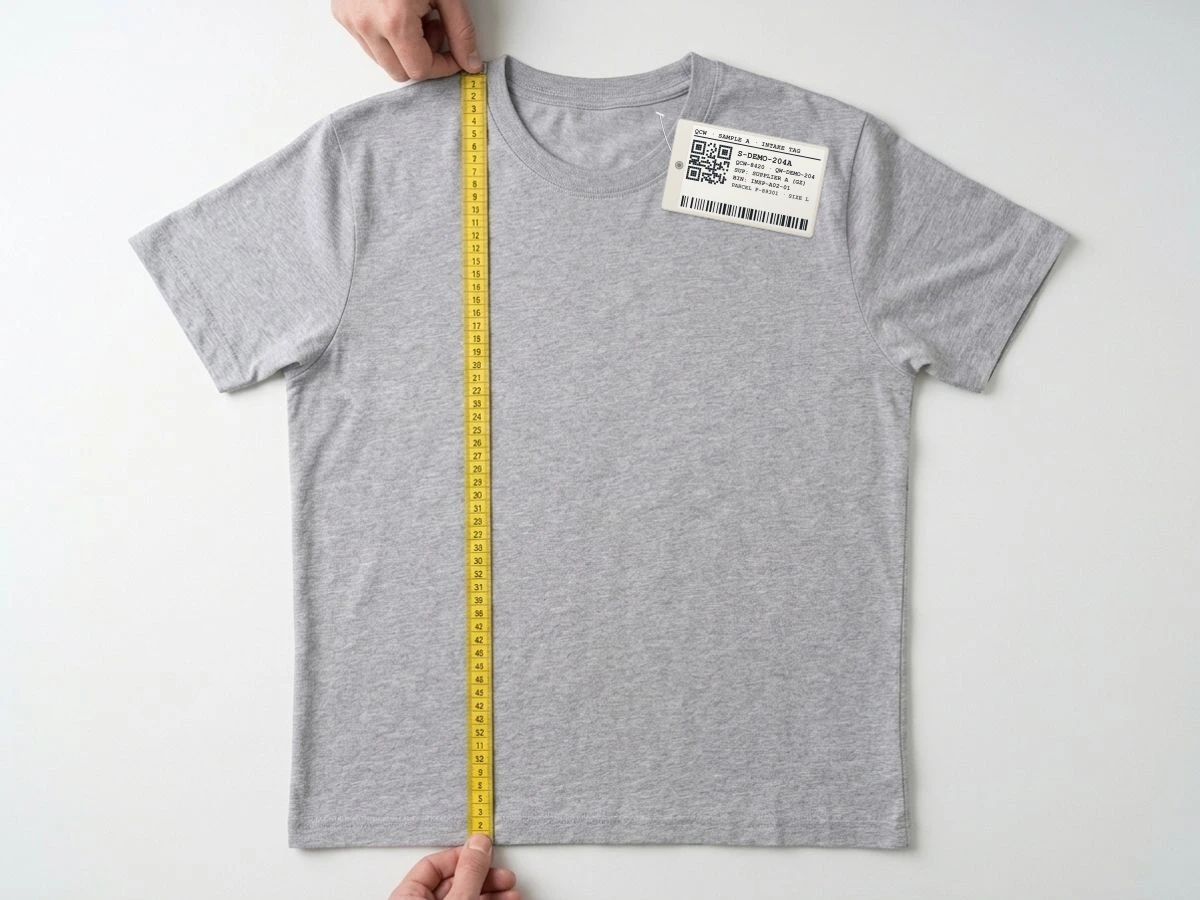
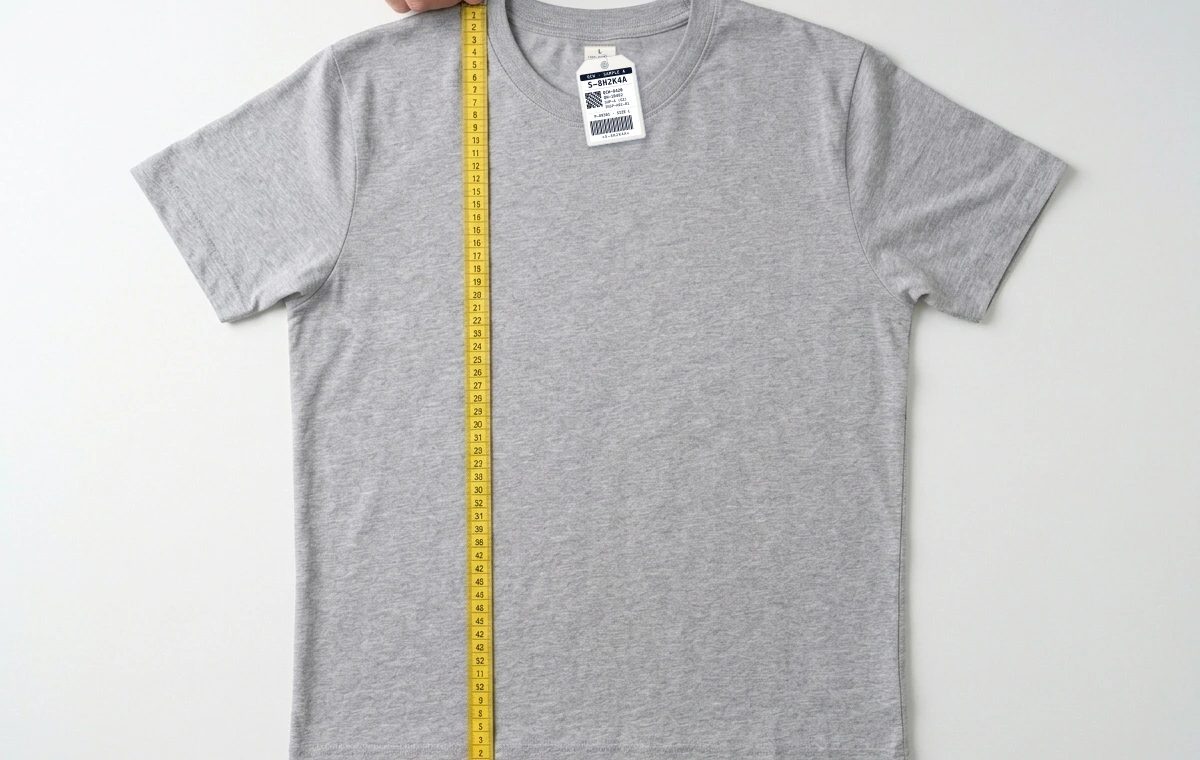
fix(marketing): pin vertical chamfered hangtags to inner collar neck labels and replace DEMO item/order/report codes

diff --git a/app/report-guide.tsx b/app/report-guide.tsx
@@ -96,7 +96,7 @@ export function SampleReportPreview() {
       <dl className="proof-data">
         <div>
           <dt>Order / Report</dt>
-          <dd>QW-DEMO-204<br />Version 02 · Reviewed</dd>
+          <dd>QW-10482 · RPT-10482<br />Version 02 · Reviewed</dd>
         </div>
         <div>
           <dt>Commissioned Service</dt>
@@ -168,30 +168,30 @@ type LightboxItem = {
 
 const DEMO_SAMPLES = [
   {
-    code: "S-DEMO-204A",
-    alias: "Illustrative Supplier A (Guangzhou)",
-    parcel: "Demo Parcel #1",
+    code: "S-8H2K4A",
+    alias: "Supplier A (Guangzhou)",
+    parcel: "P-89301 · Bin INSP-A02-01",
     size: "Labeled L",
-    weight: "238 g (example)",
-    outcome: "Within illustrative spec · Retained as example Golden Sample",
+    weight: "238 g",
+    outcome: "Within target spec · Retained as Golden Sample",
     tone: "green",
   },
   {
-    code: "S-DEMO-204B",
-    alias: "Illustrative Supplier B (Dongguan)",
-    parcel: "Demo Parcel #2",
+    code: "S-8H2K4B",
+    alias: "Supplier B (Dongguan)",
+    parcel: "P-89302 · Bin INSP-A02-02",
     size: "Labeled L",
-    weight: "214 g (example)",
-    outcome: "Example out-of-tolerance chest (+1.6 cm) · 2 annotated defect demos",
+    weight: "214 g",
+    outcome: "Out-of-tolerance chest (+1.6 cm) · 2 annotated defect notes",
     tone: "red",
   },
   {
-    code: "S-DEMO-204C",
-    alias: "Illustrative Supplier C (Ningbo)",
-    parcel: "Demo Parcel #3",
+    code: "S-8H2K4C",
+    alias: "Supplier C (Ningbo)",
+    parcel: "P-89303 · Bin INSP-A02-03",
     size: "Labeled L",
-    weight: "241 g (example)",
-    outcome: "Within illustrative spec · Routed to example forwarder",
+    weight: "241 g",
+    outcome: "Within target spec · Routed to designated forwarder",
     tone: "blue",
   },
 ] as const;
@@ -268,28 +268,28 @@ const MEASUREMENT_ROWS = [
 const PHOTO_EVIDENCE: LightboxItem[] = [
   {
     code: "FRM-01 · FRONT OVERVIEW",
-    title: "S-DEMO-204A · Front Overview (Heather-Gray Crewneck, Size L)",
+    title: "S-8H2K4A · Front Overview (Heather-Gray Crewneck, Size L)",
     src: "/marketing/report-sample-a-front.webp",
     alt: "Overhead flat-lay front overview of Sample A heather-gray cotton crewneck T-shirt on the QCWarehouse inspection bench",
-    caption: "Mandatory flat front frame linking Sample A to collar rib, cuffs, and printed care label records.",
+    caption: "Mandatory flat front frame linking Sample A to collar neck label hangtag, rib, cuffs, and intake records.",
   },
   {
     code: "FRM-02 · BACK OVERVIEW",
-    title: "S-DEMO-204A · Back Overview & Half-Moon Yoke",
+    title: "S-8H2K4A · Back Overview & Half-Moon Yoke",
     src: "/marketing/report-sample-a-back.webp",
     alt: "Overhead flat-lay back overview of Sample A heather-gray cotton crewneck T-shirt on the QCWarehouse inspection bench",
     caption: "Rear flat view captured on the identical garment, camera plane, and bench setup to confirm back jersey construction and hem finish.",
   },
   {
     code: "FRM-03 · CHEST TAPE PROOF",
-    title: "S-DEMO-204A · Chest Width Tape Measurement (55.1 cm)",
+    title: "S-8H2K4A · Chest Width Tape Measurement (55.1 cm)",
     src: "/marketing/report-sample-a-chest-measure.webp",
     alt: "Overhead studio photo showing a yellow metric tape measuring horizontal chest width (55.1 cm) across Sample A heather-gray cotton crewneck T-shirt",
     caption: "Studio frame showing unstrained seam-to-seam chest measurement (55.1 cm) with readable metric endpoints across the gray tee.",
   },
   {
     code: "FRM-04 · HPS LENGTH PROOF",
-    title: "S-DEMO-204A · Front Body Length HPS-to-Hem (72.0 cm)",
+    title: "S-8H2K4A · Front Body Length HPS-to-Hem (72.0 cm)",
     src: "/marketing/report-sample-a-body-length.webp",
     alt: "Overhead studio photo showing a yellow metric tape measuring front body length vertically (72.0 cm) from high point shoulder to bottom hem on Sample A heather-gray cotton crewneck T-shirt",
     caption: "Vertical tape proof (72.0 cm) from High Point Shoulder (HPS) to bottom hem edge captured under the identical gray tee setup.",
@@ -352,16 +352,16 @@ export function ReportGuide() {
           </div>
           <div className="pub-meta-grid" style={{ margin: 0 }}>
             <div className="pub-meta-cell">
-              <span>Demo Garment Identity</span>
+              <span>Garment Identity</span>
               <strong>Heather-Gray Crewneck · Size L</strong>
             </div>
             <div className="pub-meta-cell">
               <span>Report Snapshot</span>
-              <strong>RPT-DEMO-204 · Immutable v2</strong>
+              <strong>RPT-10482 · Immutable v2</strong>
             </div>
             <div className="pub-meta-cell">
               <span>Samples Compared</span>
-              <strong>3 Units (S-DEMO-204A / B / C)</strong>
+              <strong>3 Units (S-8H2K4A / B / C)</strong>
             </div>
             <div className="pub-meta-cell">
               <span>Evidence Scope</span>
@@ -386,7 +386,7 @@ export function ReportGuide() {
             </div>
             <h2>Apparel Sample Comparison &amp; Workmanship Report</h2>
             <p>
-              Report <span className="code">RPT-DEMO-204</span> · Published Version <span className="code">v2</span> · Order <span className="code">QW-DEMO-204</span> · Category: <strong>Apparel / Tops &amp; Knitwear</strong>
+              Report <span className="code">RPT-10482</span> · Published Version <span className="code">v2</span> · Order <span className="code">QW-10482</span> · Category: <strong>Apparel / Tops &amp; Knitwear</strong>
             </p>
           </div>
           <div style={{ display: "flex", gap: 8, flexWrap: "wrap", alignItems: "center" }}>
@@ -430,7 +430,7 @@ export function ReportGuide() {
             <div className="pub-boundary-box included">
               <strong style={{ color: "#0b816b" }}>Executed under Template v2 (Apparel — Tops)</strong>
               <ul className="pub-check-list">
-                <li><b className="mark-ok">✓</b><span>Per-parcel arrival check-in and individual sample barcode assignment (<span className="code">S-DEMO-204A..C</span>).</span></li>
+                <li><b className="mark-ok">✓</b><span>Per-parcel arrival check-in and individual sample barcode hangtag assignment (<span className="code">S-8H2K4A..C</span>).</span></li>
                 <li><b className="mark-ok">✓</b><span>5 flat-lay dimensional measurements with automatic two-pass re-measurement when variance exceeds threshold.</span></li>
                 <li><b className="mark-ok">✓</b><span>Unpackaged single-garment digital scale weight (1 g resolution).</span></li>
                 <li><b className="mark-ok">✓</b><span>Visual workmanship check across collar, chest, shoulder tape, side seams, cuffs, hem, and care label.</span></li>
@@ -568,7 +568,7 @@ export function ReportGuide() {
           <div className="pub-defect-grid">
             <figure className="pub-evidence-card">
               <div className={`pub-callout-bar${showAnnotations ? "" : " is-muted"}`}>
-                <span>{showAnnotations ? "COORDINATE OVERLAY ACTIVE · UI LAYER DEMO" : "RAW CAPTURE MODE · OVERLAY HIDDEN"}</span>
+                <span>{showAnnotations ? "COORDINATE OVERLAY ACTIVE · UI LAYER ANNOTATION" : "RAW CAPTURE MODE · OVERLAY HIDDEN"}</span>
                 <span className="code">B-DEF-01</span>
               </div>
               <button
@@ -577,7 +577,7 @@ export function ReportGuide() {
                 onClick={() =>
                   setLightbox({
                     code: "B-DEF-01 · SIDE SEAM WORKMANSHIP",
-                    title: "S-DEMO-204B · Unsecured Overlock Stitch Loop on Left Side Seam",
+                    title: "S-8H2K4B · Unsecured Overlock Stitch Loop on Left Side Seam",
                     src: "/marketing/report-sample-b-seam-defect.webp",
                     alt: "Macro close-up of an unsecured overlock stitch loop along the left side seam of Sample B heather-gray cotton T-shirt",
                     caption: "Raw macro photograph stays untouched in storage; UI coordinate box (x:0.23 y:0.41) highlights the ~14 mm thread loop.",
@@ -629,7 +629,7 @@ export function ReportGuide() {
 
             <figure className="pub-evidence-card">
               <div className={`pub-callout-bar${showAnnotations ? "" : " is-muted"}`}>
-                <span>{showAnnotations ? "COORDINATE OVERLAY ACTIVE · UI LAYER DEMO" : "RAW CAPTURE MODE · OVERLAY HIDDEN"}</span>
+                <span>{showAnnotations ? "COORDINATE OVERLAY ACTIVE · UI LAYER ANNOTATION" : "RAW CAPTURE MODE · OVERLAY HIDDEN"}</span>
                 <span className="code">B-DEF-02</span>
               </div>
               <button
@@ -638,7 +638,7 @@ export function ReportGuide() {
                 onClick={() =>
                   setLightbox({
                     code: "B-DEF-02 · FABRIC SURFACE",
-                    title: "S-DEMO-204B · Localized Surface Spot on Lower Front Panel",
+                    title: "S-8H2K4B · Localized Surface Spot on Lower Front Panel",
                     src: "/marketing/report-sample-b-fabric-stain.webp",
                     alt: "Macro close-up of a localized brownish surface stain on the heather-gray cotton jersey knit of Sample B",
                     caption: "Raw macro photograph stays untouched in storage; UI coordinate box (x:0.18 y:0.33) highlights the ~8 mm surface spot.",
@@ -697,7 +697,7 @@ export function ReportGuide() {
           <div className="pub-service-detail" style={{ margin: "14px 0 0", padding: 20, background: "#f8fafd" }}>
             <div>
               <p style={{ color: "#22364f", fontSize: 13.5, lineHeight: 1.6 }}>
-                After reviewing a comparison or inspection report, you can instruct QCWarehouse to seal an approved item (for example, <span className="code">S-DEMO-204A</span>) inside dedicated tamper-sealed reference storage. When your supplier ships a restock or pre-production piece weeks later, you order <strong>Golden Sample Matching</strong> so our inspector lays the sealed reference next to the incoming garment and records any dimensional or shade drift.
+                After reviewing a comparison or inspection report, you can instruct QCWarehouse to seal an approved item (for example, <span className="code">S-8H2K4A</span>) inside dedicated tamper-sealed reference storage. When your supplier ships a restock or pre-production piece weeks later, you order <strong>Golden Sample Matching</strong> so our inspector lays the sealed reference next to the incoming garment (<span className="code">S-9K3M7A</span>) and records any dimensional or shade drift.
               </p>
               <div className="row flexwrap no-print" style={{ gap: 8, marginTop: 12 }}>
                 <Link className="button sm" href="/services/reference">
@@ -732,18 +732,18 @@ export function ReportGuide() {
               </thead>
               <tbody>
                 <tr>
-                  <td className="mono"><strong>S-DEMO-204A</strong></td>
-                  <td>Illustrative measurements near target; 238 g example mass; clean seams.</td>
-                  <td><span className="tag green">Convert to Golden Sample</span> · Sealed into protected reference storage.</td>
+                  <td className="mono"><strong>S-8H2K4A</strong></td>
+                  <td>Measurements within target tolerance; 238 g garment mass; clean seams.</td>
+                  <td><span className="tag green">Convert to Golden Sample</span> · Sealed into protected reference storage (<span className="code">REF-A03-14</span>).</td>
                 </tr>
                 <tr>
-                  <td className="mono"><strong>S-DEMO-204B</strong></td>
-                  <td>Illustrative chest +1.6 cm over spec; 214 g example weight; annotated issues (<span className="code">B-DEF-01/02</span>).</td>
+                  <td className="mono"><strong>S-8H2K4B</strong></td>
+                  <td>Chest +1.6 cm over spec; 214 g garment weight; annotated issues (<span className="code">B-DEF-01/02</span>).</td>
                   <td><span className="tag red">Return to Seller</span> · Buyer arranges seller RMA &amp; domestic courier return quote.</td>
                 </tr>
                 <tr>
-                  <td className="mono"><strong>S-DEMO-204C</strong></td>
-                  <td>Illustrative dimensions near target; 241 g example weight; clean seams.</td>
+                  <td className="mono"><strong>S-8H2K4C</strong></td>
+                  <td>Dimensions within target tolerance; 241 g garment weight; clean seams.</td>
                   <td><span className="tag blue">Forward to Freight Forwarder</span> · Consolidated to buyer’s China forwarder address.</td>
                 </tr>
               </tbody>
